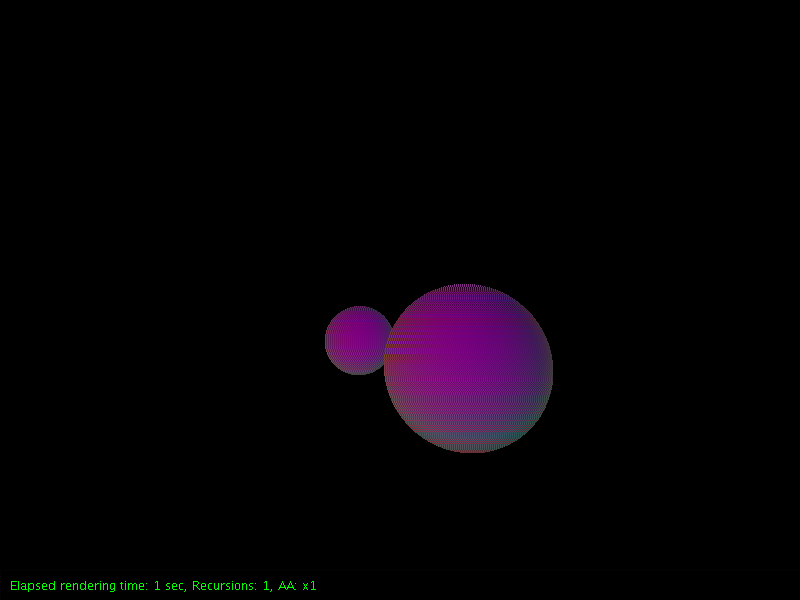
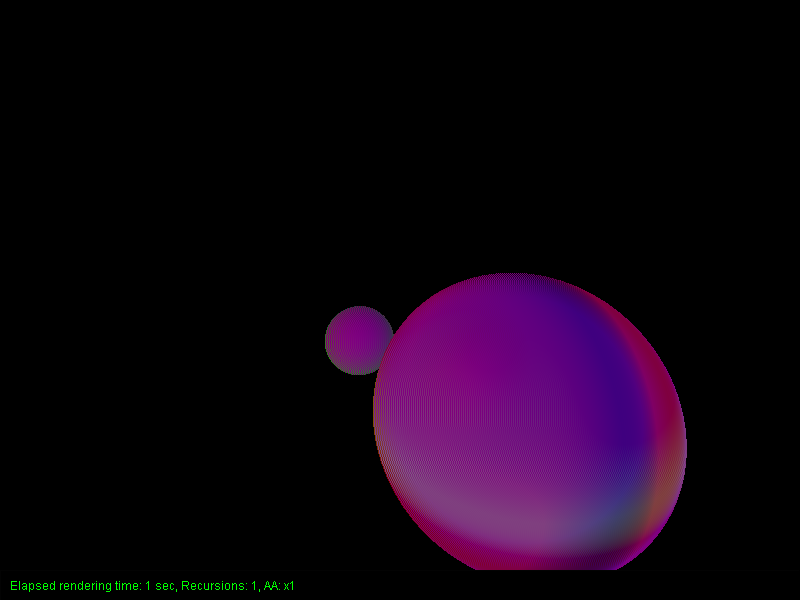
add material

Changed region(s): [[0.4062, 0.45, 0.875, 0.96], [0.0312, 0.96, 0.375, 0.99]]

diff --git a/VCG_Raytracer/src/scene/material/Phong.java b/VCG_Raytracer/src/scene/material/Phong.java
@@ -8,8 +8,11 @@ import utils.algebra.Vec3;
 
 public class Phong extends Material{
 
-    public Phong(RgbColor _ambientLight, float _ambientCoefficient, RgbColor _diffuseLight, float _diffuseCoefficient, RgbColor _specularLight, float _specularCoefficient, float _SpecularExponent) {
-        super(_ambientLight, _diffuseLight, _ambientCoefficient, _diffuseCoefficient, _specularLight, _specularCoefficient, _SpecularExponent);
+    public Phong(RgbColor _ambientLight, float _ambientCoefficient, RgbColor _diffuseLight, float _diffuseCoefficient, RgbColor _specularLight, float _specularCoefficient, float _specularExponent) {
+        super(_ambientLight, _ambientCoefficient, _diffuseLight, _diffuseCoefficient);
+        this.mSpecularLight = _specularLight;
+        this.mSpecularCoefficient = _specularCoefficient;
+        this.mSpecularExponent = _specularExponent;
     }
 
     public RgbColor getRGB(Light _light, Camera _camera, Intersection _intersection){
@@ -18,9 +21,10 @@ public class Phong extends Material{
         Vec3 lightVector = _intersection.getIntersectionPoint().sub(lightPosition).normalize();
         Vec3 normal = _intersection.getNormal().normalize();
         Vec3 reflectionVector = (normal.sub(lightVector)).multScalar(normal.scalar(lightVector)).multScalar(2);
-
+        RgbColor ambient = mAmbientLight.multScalar(mAmbientCoefficient);
+        RgbColor diffuse = _light.getColor().multScalar(mDiffuseCoefficient).multScalar(normal.scalar(lightVector));
         RgbColor specular = _light.getColor().multScalar(mSpecularCoefficient).multScalar((float) Math.pow((viewVector.scalar(reflectionVector)),mSpecularExponent));
 
-        return specular;
+        return ambient.add(diffuse).add(specular);
     }
 }

diff --git a/VCG_Raytracer/src/raytracer/Raytracer.java b/VCG_Raytracer/src/raytracer/Raytracer.java
@@ -16,6 +16,7 @@
 
 package raytracer;
 
+import org.w3c.dom.css.RGBColor;
 import ray.Ray;
 import scene.Scene;
 import scene.SceneObject;
@@ -23,6 +24,7 @@ import scene.Shape;
 import scene.camera.Camera;
 import scene.light.Light;
 import scene.material.Lambert;
+import scene.material.Phong;
 import ui.Window;
 import utils.*;
 import utils.algebra.Matrix4x4;
@@ -151,6 +153,7 @@ public class Raytracer {
 
         // Prepare materials
         Lambert lambert = new Lambert(RgbColor.WHITE, 0.5f, RgbColor.RED, 0.5f);
+        Phong phong = new Phong(RgbColor.WHITE, 0.5f, RgbColor.RED, 0.5f, RgbColor.WHITE, 0.8f, 2);
 
         // Iterate through every pixel
         for(int y = 0; y < screenHeight; y++) {
@@ -204,6 +207,15 @@ public class Raytracer {
                                 } else {
                                     RgbColor bufferedColor = new RgbColor(pixelColor.colors);
                                     pixelColor = lambert.getRGB(light, tempIntersection);
+                                    pixelColor = pixelColor.sub(bufferedColor);
+                                }
+                                break;
+                            case "phong":
+                                if (pixelColor == null) {
+                                    pixelColor = phong.getRGB(light, camera, tempIntersection);
+                                } else {
+                                    RgbColor bufferedColor = new RgbColor(pixelColor.colors);
+                                    pixelColor = phong.getRGB(light, camera, tempIntersection);
                                     pixelColor = pixelColor.sub(bufferedColor);
                                 }
                                 break;

diff --git a/VCG_Raytracer/src/scene/material/Material.java b/VCG_Raytracer/src/scene/material/Material.java
@@ -12,14 +12,11 @@ public abstract class Material {
     protected float mSpecularCoefficient;
     protected float mSpecularExponent;
 
-    public Material(RgbColor mAmbientLight, RgbColor mDiffuseLight, RgbColor mSpecularLight, float mAmbientCoefficient, float mDiffuseCoefficient, float mSpecularCoefficient, float mSpecularExponent) {
+    public Material(RgbColor mAmbientLight, float mAmbientCoefficient, RgbColor mDiffuseLight, float mDiffuseCoefficient) {
         this.mAmbientLight = mAmbientLight;
         this.mDiffuseLight = mDiffuseLight;
-        this.mSpecularLight = mSpecularLight;
         this.mDiffuseCoefficient = mDiffuseCoefficient;
         this.mAmbientCoefficient = mAmbientCoefficient;
-        this.mSpecularCoefficient = mSpecularCoefficient;
-        this.mSpecularExponent = mSpecularExponent;
     }
 
 }

diff --git a/VCG_Raytracer/src/scene/material/Lambert.java b/VCG_Raytracer/src/scene/material/Lambert.java
@@ -7,8 +7,8 @@ import utils.algebra.Vec3;
 
 public class Lambert extends Material {
 
-    public Lambert(RgbColor _ambientLight, float _ambientCoefficient, RgbColor _diffuseLight, float _diffuseCoefficient, RgbColor _specularLight, float _specularCoefficient, float _SpecularExponent) {
-        super(_ambientLight, _diffuseLight, _ambientCoefficient, _diffuseCoefficient, _specularLight, _specularCoefficient, _SpecularExponent);
+    public Lambert(RgbColor _ambientLight, float _ambientCoefficient, RgbColor _diffuseLight, float _diffuseCoefficient) {
+        super(_ambientLight, _ambientCoefficient, _diffuseLight, _diffuseCoefficient);
     }
 
     public RgbColor getRGB(Light _light, Intersection _intersection) {

diff --git a/VCG_Raytracer/src/Main.java b/VCG_Raytracer/src/Main.java
@@ -136,7 +136,7 @@ public class Main {
 
     private static void setupObjects(Scene renderScene) {
         renderScene.createSphere(new Vec3(-1,1,-8), 0.85f, "lambert");
-        renderScene.createSphere(new Vec3(1,1,-5), 1.25f, "lambert");
+        renderScene.createSphere(new Vec3(1,1,-3), 1.25f, "phong");
     }
 
     private static void setupCornellBox(Scene renderScene) {
